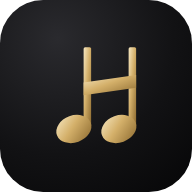
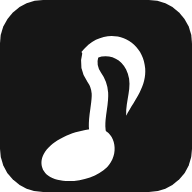
Новое имя Note и новый логотип
Claude-Session: https://claude.ai/code/session_01RDGvuLU6ncQpGj2rs7aEm7

Changed region(s): [[0.1875, 0.1875, 0.7812, 0.9688]]

diff --git a/index.html b/index.html
@@ -3,14 +3,14 @@
 <head>
 <meta charset="utf-8">
 <meta name="viewport" content="width=device-width, initial-scale=1, viewport-fit=cover">
-<title>Нота</title>
+<title>Note</title>
 <meta name="description" content="Бесплатная музыка со всего мира: артисты и альбомы Audius и Internet Archive, интернет-радио, YouTube и ваши файлы.">
 <meta name="theme-color" content="#ffffff" media="(prefers-color-scheme: light)">
 <meta name="theme-color" content="#000000" media="(prefers-color-scheme: dark)">
 <meta name="apple-mobile-web-app-capable" content="yes">
 <meta name="mobile-web-app-capable" content="yes">
 <meta name="apple-mobile-web-app-status-bar-style" content="black-translucent">
-<meta name="apple-mobile-web-app-title" content="Нота">
+<meta name="apple-mobile-web-app-title" content="Note">
 <link rel="preconnect" href="https://api.audius.co" crossorigin>
 <link rel="preconnect" href="https://archive.org" crossorigin>
 <link rel="preconnect" href="https://de1.api.radio-browser.info" crossorigin>
@@ -20,11 +20,14 @@
 <link rel="manifest" href="manifest.webmanifest">
 <link rel="icon" href="icon.svg" type="image/svg+xml">
 <link rel="apple-touch-icon" href="icon-180.png">
+<link rel="preconnect" href="https://fonts.googleapis.com">
+<link rel="preconnect" href="https://fonts.gstatic.com" crossorigin>
+<link rel="stylesheet" href="https://fonts.googleapis.com/css2?family=Bowlby+One&display=swap&text=Note">
 <link rel="stylesheet" href="style.css">
 </head>
 <body>
 <nav class="tabs" aria-label="Разделы">
-  <div class="brand"><img src="icon.svg" alt="" width="28" height="28"><span>Нота</span></div>
+  <div class="brand"><img src="icon.svg" alt="" width="28" height="28"><span class="wordmark">Note</span></div>
   <a href="#home" data-tab="home"><svg viewBox="0 0 24 24"><path d="M12 3.2 3 10v10.3c0 .4.3.7.7.7H9v-6.5h6V21h5.3c.4 0 .7-.3.7-.7V10z"/></svg><span>Главная</span></a>
   <a href="#browse" data-tab="browse"><svg viewBox="0 0 24 24"><path d="M4 4h7v7H4zm9 0h7v7h-7zM4 13h7v7H4zm9 0h7v7h-7z"/></svg><span>Обзор</span></a>
   <a href="#radio" data-tab="radio"><svg viewBox="0 0 24 24"><path d="M12 9.6a2.4 2.4 0 1 1 0 4.8 2.4 2.4 0 0 1 0-4.8zM7 6.2l1.4 1.4a6.2 6.2 0 0 0 0 8.8L7 17.8a8.2 8.2 0 0 1 0-11.6zm10 0a8.2 8.2 0 0 1 0 11.6l-1.4-1.4a6.2 6.2 0 0 0 0-8.8zM4.2 3.4l1.4 1.4a10.2 10.2 0 0 0 0 14.4l-1.4 1.4a12.2 12.2 0 0 1 0-17.2zm15.6 0a12.2 12.2 0 0 1 0 17.2l-1.4-1.4a10.2 10.2 0 0 0 0-14.4z"/></svg><span>Радио</span></a>

diff --git a/style.css b/style.css
@@ -360,6 +360,7 @@ input.text { width: 100%; height: 46px; border-radius: 12px; border: 0; backgrou
     top: 0; right: auto; width: 240px; height: auto; display: flex; flex-direction: column; gap: 2px; padding: 22px 12px;
     border-top: 0; border-right: .5px solid var(--line); background: var(--surface); -webkit-backdrop-filter: none; backdrop-filter: none;
   }
+  .tabs .brand .wordmark { font-family: 'Bowlby One', var(--font); font-weight: 400; font-size: 22px; letter-spacing: .01em; transform: skewX(-10deg); display: inline-block; }
   .tabs .brand { display: flex; align-items: center; gap: 10px; padding: 0 10px 22px; font-size: 20px; font-weight: 700; letter-spacing: -.02em; }
   .tabs a { flex-direction: row; justify-content: flex-start; gap: 12px; padding: 0 10px; height: 36px; border-radius: 8px; font-size: 15px; color: var(--fg); }
   .tabs a svg { width: 20px; height: 20px; color: var(--accent); }

diff --git a/sw.js b/sw.js
@@ -1,5 +1,5 @@
 // App shell is served from cache and refreshed in the background; artwork is cached after the first view.
-const CACHE = 'nota-v9';
+const CACHE = 'nota-v10';
 const IMG = 'nota-img-v1';
 const SHELL = ['./', 'index.html', 'style.css', 'app.js', 'icon.svg', 'icon-192.png', 'icon-512.png', 'manifest.webmanifest'];
 self.addEventListener('install', (e) => { e.waitUntil(caches.open(CACHE).then((c) => c.addAll(SHELL))); self.skipWaiting(); });

diff --git a/README.md b/README.md
@@ -1,4 +1,6 @@
-# Нота
+# Note
+
+![Note](logo.png)
 
 Бесплатная музыка в браузере, в стиле Apple Music.
 
